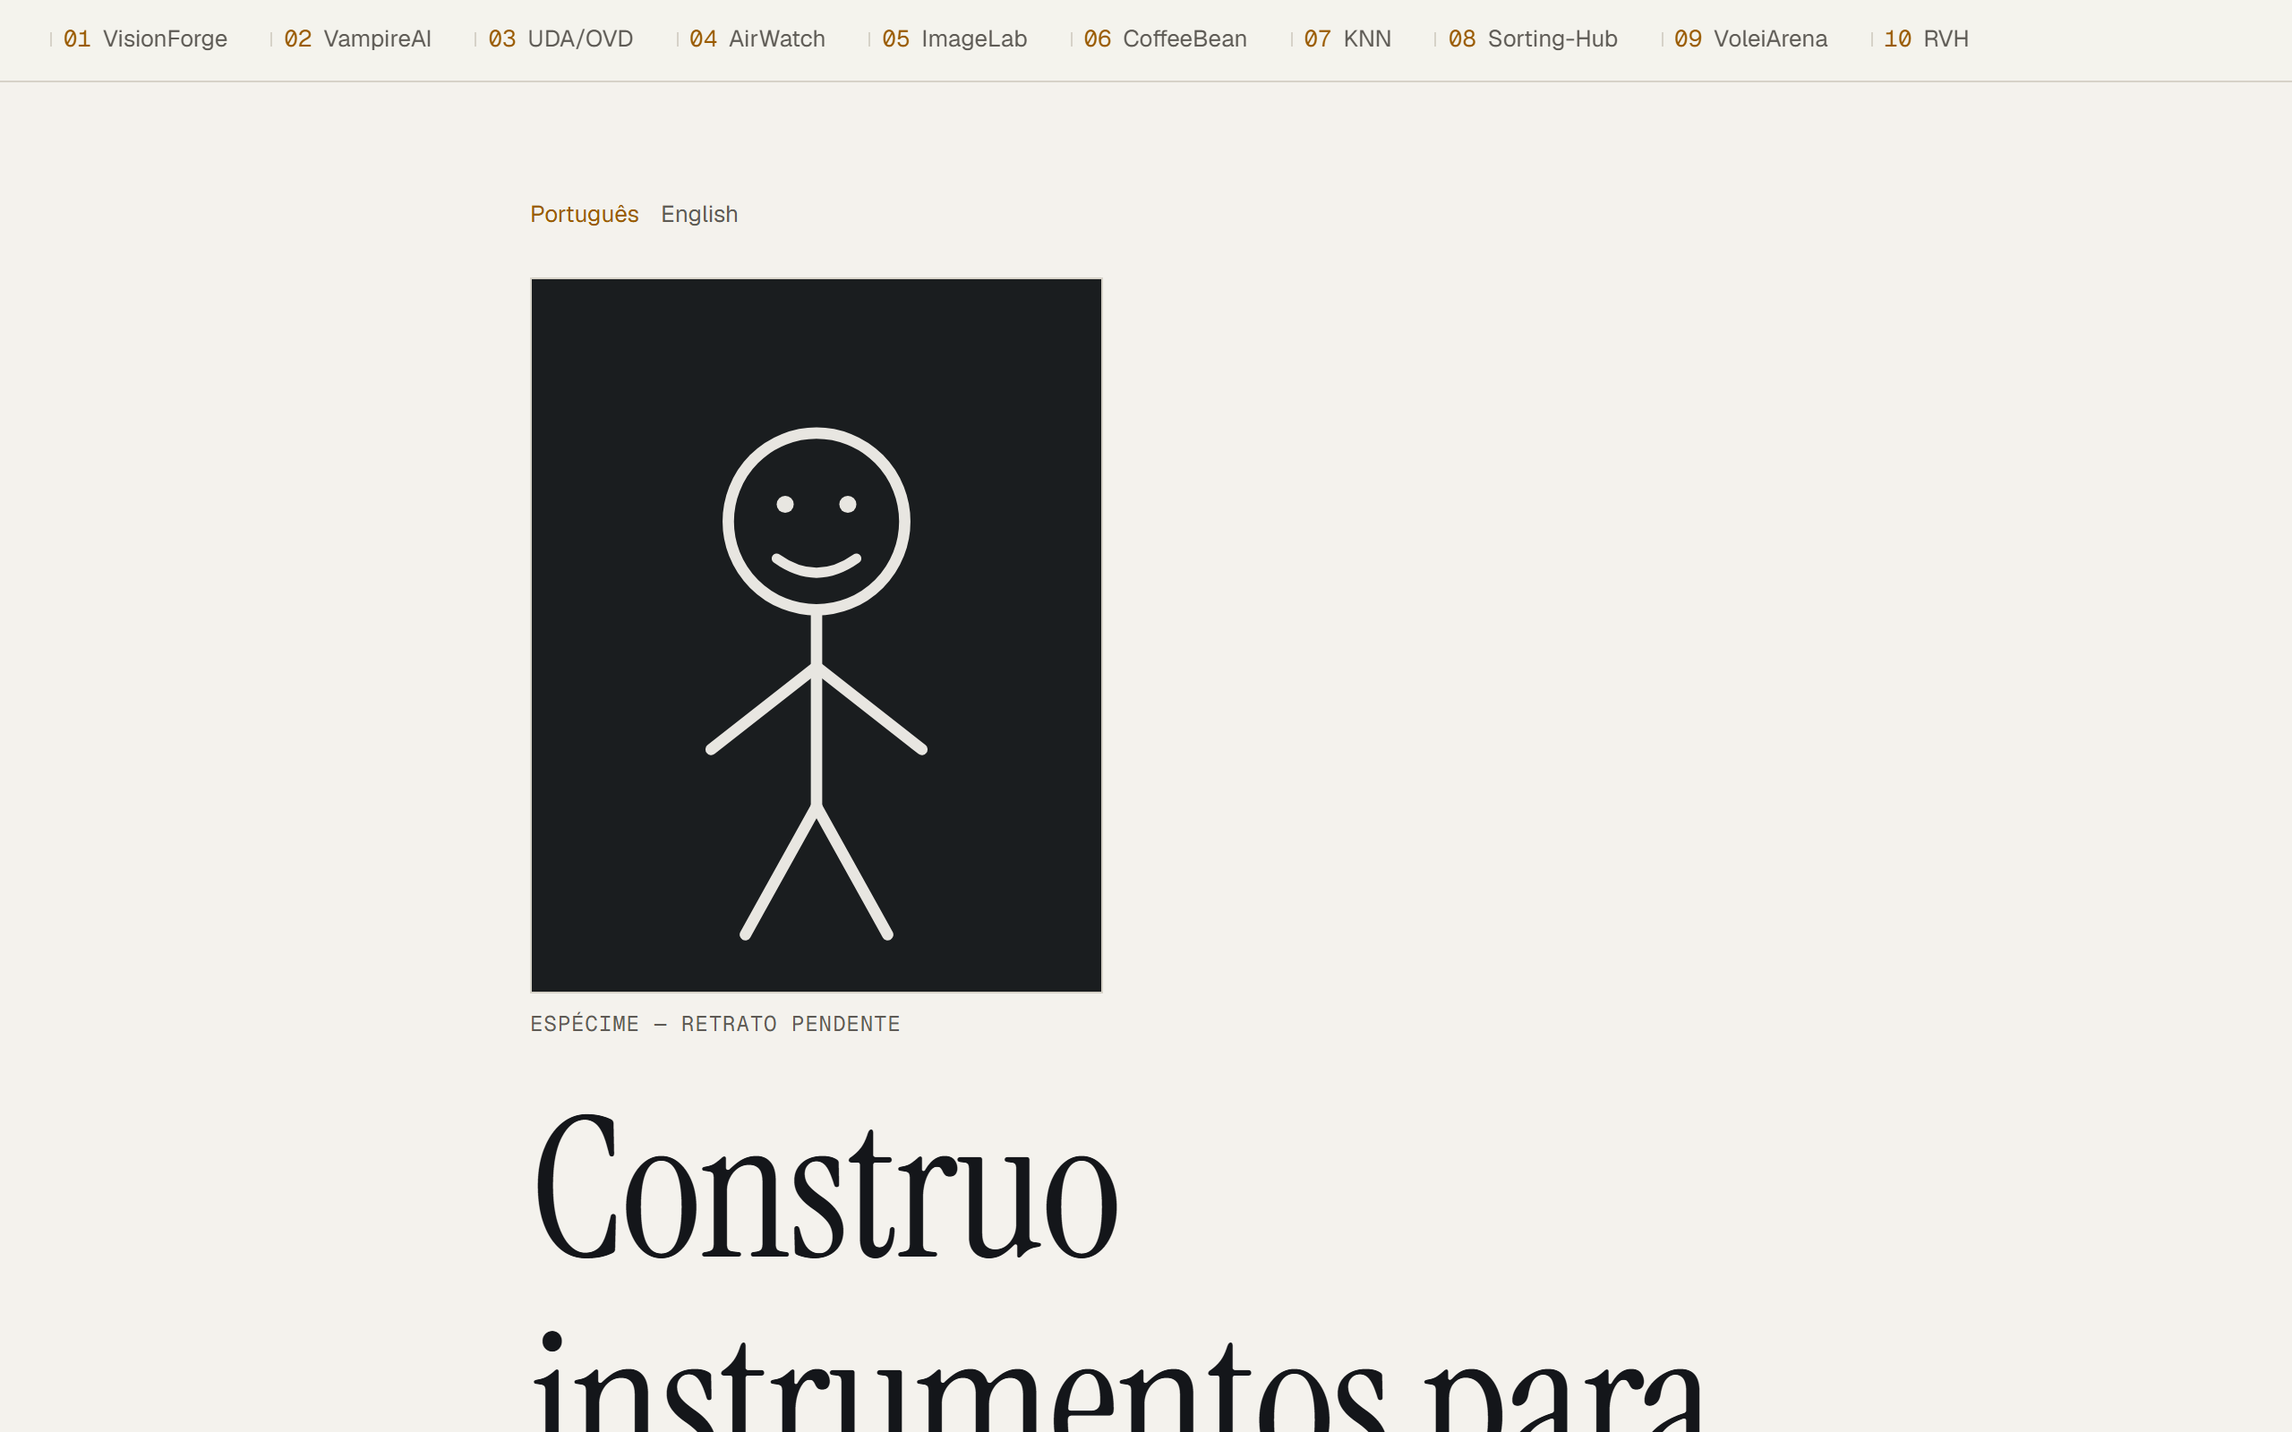
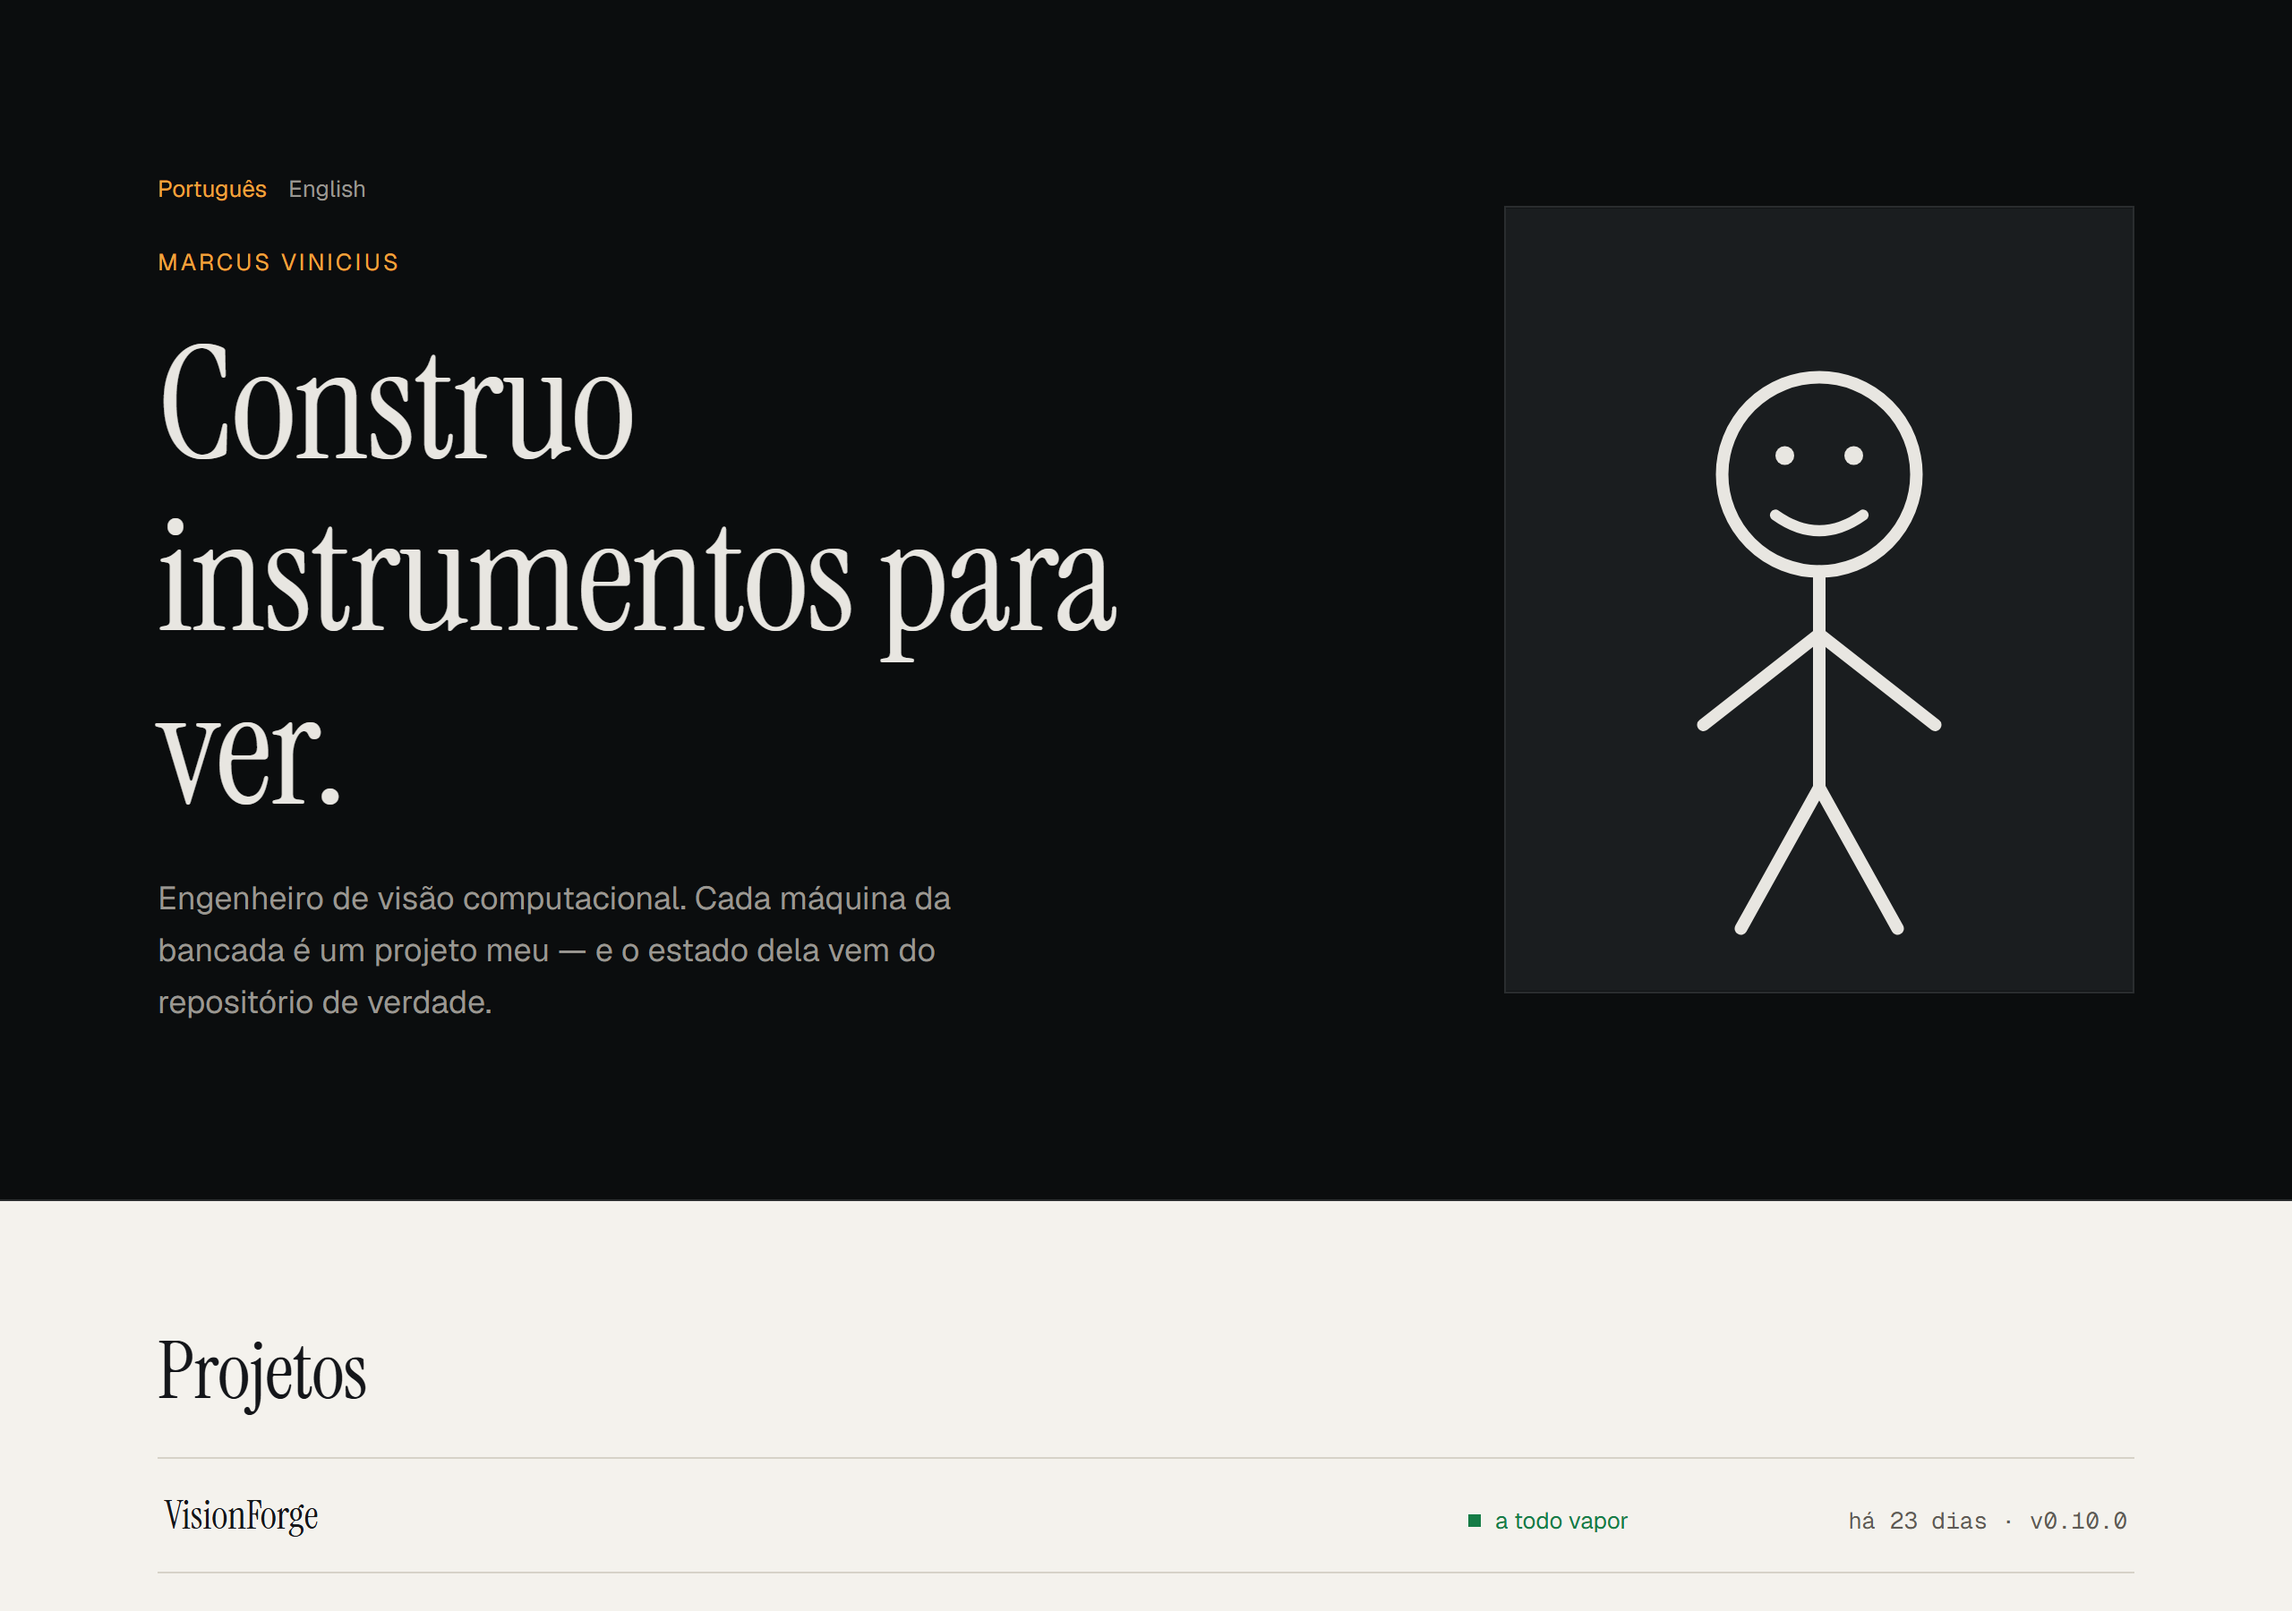
docs: README e capturas da Bancada

diff --git a/README.md b/README.md
@@ -1,103 +1,62 @@
-# Optical Bench — Marcus Vinicius's portfolio
+# A Bancada — portfólio de Marcus Vinicius
 
-A bilingual portfolio built as an **optical bench**: every project is a *station*
-on a rail, and each one carries its own persona, accent colour and — as the
-project grows — its own behaviour.
+A bilingual portfolio where every project is a **small machine living on a
+bench**, and the state of each machine comes from its real GitHub repository.
 
-![The home page in dark mode: the rail across the top, the specimen slot, and the opening line](docs/images/home-dark.png)
+![The home page in dark mode](docs/images/home-dark.png)
 
-*(README in English on purpose: this repository is linked from the site, and the
-site is aimed at both Brazilian and international readers.)*
+*(README in English on purpose: this repository is linked from the site, which
+is aimed at both Brazilian and international readers.)*
+
+> **Status — under construction.** This is stage 3 of 7: the data pipeline,
+> the mood rules and the project index are live. The machines themselves (a
+> pixel-art floor in Canvas 2D), the in-place project panel and the hero's
+> light effect come next — see [Roadmap](#roadmap).
 
 ## The idea
 
-The through-line in my work is building **instruments for seeing** — VisionForge
-so a researcher can look at their own model without fooling themselves, ImageLab
-to expose the operation on the pixel, VampireAI to find out what a small local
-model can make of a game screen, and my master's research to make a detector see
-under domain shift.
+The projects become machines with a screen for a face: a floating lens for
+VisionForge, a weather station for AirWatch, a coffee maker for CoffeeBean, a
+ball launcher for VoleiArena. None of them is humanoid.
 
-So the site is an instrument too. Rather than dropping ten projects into ten
-identical cards, each station gets its own identity, and the plan is for each one
-to eventually run its own algorithm live on the page — a fog slider that decays
-detection boxes, a filter chain you can drag an image into, a distributed graph
-whose nodes you can kill.
+Each machine's **mood is computed from the repository**. A daily job reads the
+last commit (across *all* branches — `pushed_at` lies), the commits in the last
+90 days, the latest tag and the stars, and crosses that with a hand-written
+status:
 
-This repository is **stage one**: the bilingual foundation, the content layer and
-the design system. The WebGL layer and the per-project mechanics come next (see
-[Roadmap](#roadmap)).
-
-## Screenshots
-
-| Light mode | A station |
+| Mood | When |
 |---|---|
-| ![Home page in light mode; the amber accent darkens to stay readable on paper](docs/images/home-light.png) | ![The VisionForge station, its persona label in the project's own green](docs/images/station.png) |
+| graduated | the project is finished — university coursework, for instance |
+| full steam | active, 30 or more commits in 90 days |
+| active | active, fewer commits |
+| yawning / napping / asleep | paused, for under 90 / 90–180 / over 180 days |
 
-| A project page | English, and mobile |
-|---|---|
-| ![The master's research page, reporting the negative result in full](docs/images/project-page.png) | ![The rail at 390px, labels kept in the accessibility tree](docs/images/mobile.png) |
+Finished is not abandoned: a course project from 2024 *graduates*, it doesn't
+gather dust. And the data keeps the status honest — a project marked "active"
+with no commit in six months is treated as paused, and the build says so.
 
-## The opening
-
-The specimen doesn't fade in — it **resolves**. It starts as a raw Bayer sensor
-readout, where each block carries only one of red, green or blue in the RGGB
-pattern a real camera sensor uses, plus read noise. Over 1.4 seconds the blocks
-shrink to single pixels, the noise falls away and demosaicing fills in the
-missing channels. From pixels to a person.
-
-| Raw sensor | Resolving | Resolved |
-|---|---|---|
-| ![The specimen as a raw RGGB sensor mosaic](docs/images/hero-reveal-1.png) | ![The mosaic finer, colour fringing at the edges](docs/images/hero-reveal-2.png) | ![The finished image](docs/images/hero-reveal-3.png) |
-
-It's a hand-written WebGL2 layer — one full-screen quad, one fragment shader, no
-library — and it costs **7 kB** of JavaScript, fetched only when the browser can
-actually use it. Without WebGL2, or under `prefers-reduced-motion`, no canvas is
-created at all and the image is simply there.
-
-The portrait is a **stick figure on purpose** — the real photograph doesn't exist
-yet, so the slot ships at its final 4:5 crop with a placeholder standing in.
-Swapping it is a one-file change. It will also make the effect land harder: a
-bold line drawing survives block quantisation far better than skin tones and soft
-gradients do, so the real photo will be much less readable at the start.
-
-## Stack
-
-- **[Astro 7](https://astro.build)**, `output: 'static'` — plain HTML, and
-  currently **zero runtime JavaScript**
-- Project content as **MDX**, one file per project per language
-- Fonts self-hosted via `@fontsource` — Instrument Serif for display, Geist for
-  body, Geist Mono for anything numeric
-- **[Vitest](https://vitest.dev)** for unit tests, **[Playwright](https://playwright.dev)**
-  for end-to-end
+![The project index, each row saying the mood and the fact behind it](docs/images/index.png)
 
 ## A few things I'd point at
 
-**A missing translation fails the build.** `src/lib/parity.ts` compares the slug
-sets of both languages and throws, so the site can never publish half a
-translation. It also throws when the collection comes back *empty* — that sounds
-paranoid until you notice that a change in how content ids are generated would
-otherwise let the build succeed while publishing nothing at all.
+**The build never touches the network.** `npm run refresh:github` writes
+`src/data/github-snapshot.json`, which is committed. A GitHub Action refreshes
+it daily. The mood's "today" is the snapshot's date, never the clock, so any
+build is reproducible.
 
-**Colour contrast is a test, not a hope.** `src/lib/tokens.ts` is the single
-source of truth for the palette, and `tests/unit/tokens.test.ts` asserts WCAG AA
-on every pair in both modes. That test is why the site's amber has a second,
-darker value for light mode — `#F0A33C` scores 1.88 on paper.
+**A missing translation fails the build**, and so does an empty collection —
+which is what would happen, silently, if the content id format ever changed.
 
-The same idea covers the ten per-project accents, in
-`tests/unit/project-accents.test.ts`, which reads the MDX files off disk so it
-can never drift from what ships. Every accent is a **pair**: a colour picked
-against dark graphite almost never survives light mode. Nine of the original ten
-didn't.
-
-**Routing is one pure function.** `src/lib/i18n.ts` parses a path into a
-canonical route and rebuilds it in the target language, so the language toggle
-carries you from `/projeto/uda-ovd` to `/en/project/uda-ovd` without string
-surgery scattered across components.
+**Colour contrast is a test, not a hope.** Every accent is a *pair* — dark and
+light mode — and `tests/unit/project-accents.test.ts` reads the real content
+files to assert WCAG AA on each.
 
 **No display text lives in a component.** It's all in `src/lib/ui-strings.ts`
 or in MDX frontmatter.
 
-Current state: **95 unit tests, 5 end-to-end, 22 pages, Lighthouse 100/100/100.**
+| Light mode | English |
+|---|---|
+| ![Home in light mode — the hero stays a dark stage](docs/images/home-light.png) | ![Home in English](docs/images/home-en.png) |
 
 ## Commands
 
@@ -108,19 +67,19 @@ Current state: **95 unit tests, 5 end-to-end, 22 pages, Lighthouse 100/100/100.*
 | `npm run preview` | Serve the production build locally |
 | `npm test` | Unit tests (Vitest) |
 | `npm run test:e2e` | End-to-end tests (Playwright) |
-| `npm run check` | Type-check, including `.astro` files |
+| `npm run check` | Type-check, including `.astro` files and tests |
+| `npm run refresh:github` | Refresh the GitHub snapshot (needs `GITHUB_TOKEN`) |
 | `npm run shots` | Regenerate the screenshots in this README |
 
 ## Roadmap
 
-- [x] **Stage 1 — bilingual foundation.** Content, routing, design tokens, rail,
-  stations, project pages, tests, CI.
-- [ ] **Stage 2 — the WebGL engine.** A hand-written WebGL2 canvas (one
-  full-screen quad, one fragment shader per station), crossfades driven by scroll
-  position, and static posters pre-rendered at build time from the same shaders
-  for `prefers-reduced-motion`.
-- [ ] **Stage 3 — the stations.** One shader and one interactive mechanic per
-  project, in order of value.
+- [x] **Stage 3 — data, mood and index.**
+- [ ] **Stage 4 — the floor.** Canvas 2D, Aseprite spritesheets, the first two
+  machines.
+- [ ] **Stage 5 — the panel.** Projects open in place; the URL still changes.
+- [ ] **Stage 6 — the hero.** Half photograph, half squares of light on the
+  same pixel grid as the machines.
+- [ ] **Stage 7 — the full cast** and the interactions between machines.
 
 See `CLAUDE.md` for the project's invariants, and `docs/superpowers/` for the
-design spec and implementation plans.
+spec and the implementation plans.
